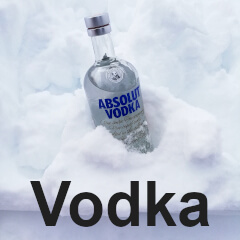
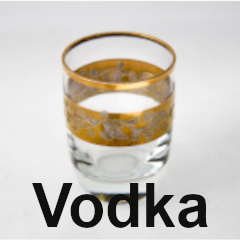
Add files via upload

diff --git a/lollo/drinks/ingredienti/gin.html b/lollo/drinks/ingredienti/gin.html
@@ -1,48 +1,40 @@
 <!DOCTYPE html>
 <html lang="it">
 <head>
-  <title>Virgin Colada</title>
-  <link rel="shortcut icon" href="../icons/icon.ico"/>
+  <title>Gin</title>
+  <link rel="shortcut icon" href="../../icons/icon.ico"/>
   <meta name="viewport" content="width=device-width, user-scalable=no,
 initial-scale=1.0, minimum-scale=1.0, maximum-scale=1.0">
-  <link rel="stylesheet" href="../style.css">
+  <link rel="stylesheet" href="../../style.css">
 </head>
 <body>
   <input type="checkbox" id="check">
     <label for="check">
-      <i class="fas fa-bars" id="btn"><img class="menuicon" src="../icons/menu.png"></i>
-      <i class="fas fa-times" id="cancel"><img class="menuicon" src="../icons/indietro.png"></i>
+      <i class="fas fa-bars" id="btn"><img class="menuicon" src="../../icons/menu.png"></i>
+      <i class="fas fa-times" id="cancel"><img class="menuicon" src="../../icons/indietro.png"></i>
     </label>
     <div class="sidebar">
     <header>F4L5J</header>
   <ul>
-<li><a href="../index.html"><i></i>Home</a></li>
-<li><a href="../aperitivi.html"><i></i>Aperitivi</a></li>
-<li><a href="../privacypolicy.html"><i></i>Cose legali</a></li>
+<li><a href="../../index.html"><i></i>Home</a></li>
+<li><a href="../../aperitivi.html"><i></i>Aperitivi</a></li>
+<li><a href="../../privacypolicy.html"><i></i>Cose legali</a></li>
 </ul>
 </div>
 <br><br><br><br><br>
-  <h1 class="maintitle">Virgin Colada</h1>
-  <img src="images/virgincolada.jpg" class="imgggschedule"alt="drink">
-  <br>
-  <div class="rapidinfo">
-    <div class="flexitemdetails">
-      <h3 class="itemdetails">Gusto</h3><h3 class="itemdetails">dolce</h3>
-    </div>
-    <div class="flexitemdetails">
-      <h3 class="itemdetails">Grado alcolico</h3><h3 class="itemdetails">0</h3>
-    </div>
-  </div>
-  <p>Virgin Piña Colada è la versione analcolica della Piña Colada. Gli ingredienti sono i base gli stessi ma senza rum</p>
-  <p>Ingredienti</p>
+  <h1 class="maintitle">Gin</h1>
+  <img src="../images/gin2.jpg" class="imgggschedule" alt="ingredient">
+  <p>Il gin è una bevanda alcolica che prende il nome dal Ginepro. Si ottiene facendo macerare i botanicals in un fermentato di cereali, il tutto poi viene distillato.<br>I botanicals sono erbe, spezie e altro tra cui deve esserci per forza il ginepro</p>
+  <p>Componenti che possono variare in base alla propria ricetta*</p>
   <ul>
-    <li class="ingredient">Latte di cocco 250 mL</li>
-    <li class="ingredient">Succo di ananas 100 mL</li>
-    <li class="ingredient">Succo di lime (poco)</li>
-    <li class="ingredient">1 ciliegia</li>
-    <li class="ingredient">Ghiaccio</li>
+    <li class="ingredient">Ginepro</li>
+    <li class="ingredient">Semi di coriandolo</li>
+    <li class="ingredient">Radici di angelica</li>
+    <li class="ingredient">Iris Germanica / Iris Pallida</li>
+    <li class="ingredient">Scorze di agrumi (non è presente in tutti)</li>
   </ul>
-  <p>Il gusto è dolce e delicato anche questo drink è considerato salutare per i benefici del latte di cocco e il succo d'ananas</p>
+  <p>Usato per preparere altri drink</p>
+  <p>*Fonte Wikipedia</p>
 
   <div class="flexcookies">
     <div class="alcol-container">

diff --git a/lollo/drinks/ingredienti/chinino.html b/lollo/drinks/ingredienti/chinino.html
@@ -1,48 +1,38 @@
 <!DOCTYPE html>
 <html lang="it">
 <head>
-  <title>Virgin Colada</title>
-  <link rel="shortcut icon" href="../icons/icon.ico"/>
+  <title>Vodka</title>
+  <link rel="shortcut icon" href="../../icons/icon.ico"/>
   <meta name="viewport" content="width=device-width, user-scalable=no,
 initial-scale=1.0, minimum-scale=1.0, maximum-scale=1.0">
-  <link rel="stylesheet" href="../style.css">
+  <link rel="stylesheet" href="../../style.css">
 </head>
 <body>
   <input type="checkbox" id="check">
     <label for="check">
-      <i class="fas fa-bars" id="btn"><img class="menuicon" src="../icons/menu.png"></i>
-      <i class="fas fa-times" id="cancel"><img class="menuicon" src="../icons/indietro.png"></i>
+      <i class="fas fa-bars" id="btn"><img class="menuicon" src="../../icons/menu.png"></i>
+      <i class="fas fa-times" id="cancel"><img class="menuicon" src="../../icons/indietro.png"></i>
     </label>
     <div class="sidebar">
     <header>F4L5J</header>
   <ul>
-<li><a href="../index.html"><i></i>Home</a></li>
-<li><a href="../aperitivi.html"><i></i>Aperitivi</a></li>
-<li><a href="../privacypolicy.html"><i></i>Cose legali</a></li>
+<li><a href="../../index.html"><i></i>Home</a></li>
+<li><a href="../../aperitivi.html"><i></i>Aperitivi</a></li>
+<li><a href="../../privacypolicy.html"><i></i>Cose legali</a></li>
 </ul>
 </div>
 <br><br><br><br><br>
-  <h1 class="maintitle">Virgin Colada</h1>
-  <img src="images/virgincolada.jpg" class="imgggschedule"alt="drink">
-  <br>
-  <div class="rapidinfo">
-    <div class="flexitemdetails">
-      <h3 class="itemdetails">Gusto</h3><h3 class="itemdetails">dolce</h3>
-    </div>
-    <div class="flexitemdetails">
-      <h3 class="itemdetails">Grado alcolico</h3><h3 class="itemdetails">0</h3>
-    </div>
-  </div>
-  <p>Virgin Piña Colada è la versione analcolica della Piña Colada. Gli ingredienti sono i base gli stessi ma senza rum</p>
-  <p>Ingredienti</p>
+  <h1 class="maintitle">Vodka</h1>
+  <p>L'acqua tonica è una bibita dolce fatta da acqua con altri ingredienti. È un soft drink cioè una bibita composta da acqua naturale o acqua gassata , la soda (triossocarbonato di disodio) e opzionalmente aromi o zuccheri vari</p>
+  <p>Componenti</p>
   <ul>
-    <li class="ingredient">Latte di cocco 250 mL</li>
-    <li class="ingredient">Succo di ananas 100 mL</li>
-    <li class="ingredient">Succo di lime (poco)</li>
-    <li class="ingredient">1 ciliegia</li>
-    <li class="ingredient">Ghiaccio</li>
+    <li class="ingredient">Acqua</li>
+    <li class="ingredient">Anidride carbonica (diossido di carbonio)</li>
+    <li class="ingredient">Aromi naturali</li>
+    <li class="ingredient">Chinino</li>
+    <li class="ingredient">Zucchero</li>
   </ul>
-  <p>Il gusto è dolce e delicato anche questo drink è considerato salutare per i benefici del latte di cocco e il succo d'ananas</p>
+  <p>L'acqua tonica è priva di nutrienti in quantità signifucativ e usata spesso per preparare altri coktails</p>
 
   <div class="flexcookies">
     <div class="alcol-container">

diff --git a/lollo/drinks/ingredienti/rum.html b/lollo/drinks/ingredienti/rum.html
@@ -1,48 +1,38 @@
 <!DOCTYPE html>
 <html lang="it">
 <head>
-  <title>Virgin Colada</title>
-  <link rel="shortcut icon" href="../icons/icon.ico"/>
+  <title>Vodka</title>
+  <link rel="shortcut icon" href="../../icons/icon.ico"/>
   <meta name="viewport" content="width=device-width, user-scalable=no,
 initial-scale=1.0, minimum-scale=1.0, maximum-scale=1.0">
-  <link rel="stylesheet" href="../style.css">
+  <link rel="stylesheet" href="../../style.css">
 </head>
 <body>
   <input type="checkbox" id="check">
     <label for="check">
-      <i class="fas fa-bars" id="btn"><img class="menuicon" src="../icons/menu.png"></i>
-      <i class="fas fa-times" id="cancel"><img class="menuicon" src="../icons/indietro.png"></i>
+      <i class="fas fa-bars" id="btn"><img class="menuicon" src="../../icons/menu.png"></i>
+      <i class="fas fa-times" id="cancel"><img class="menuicon" src="../../icons/indietro.png"></i>
     </label>
     <div class="sidebar">
     <header>F4L5J</header>
   <ul>
-<li><a href="../index.html"><i></i>Home</a></li>
-<li><a href="../aperitivi.html"><i></i>Aperitivi</a></li>
-<li><a href="../privacypolicy.html"><i></i>Cose legali</a></li>
+<li><a href="../../index.html"><i></i>Home</a></li>
+<li><a href="../../aperitivi.html"><i></i>Aperitivi</a></li>
+<li><a href="../../privacypolicy.html"><i></i>Cose legali</a></li>
 </ul>
 </div>
 <br><br><br><br><br>
-  <h1 class="maintitle">Virgin Colada</h1>
-  <img src="images/virgincolada.jpg" class="imgggschedule"alt="drink">
-  <br>
-  <div class="rapidinfo">
-    <div class="flexitemdetails">
-      <h3 class="itemdetails">Gusto</h3><h3 class="itemdetails">dolce</h3>
-    </div>
-    <div class="flexitemdetails">
-      <h3 class="itemdetails">Grado alcolico</h3><h3 class="itemdetails">0</h3>
-    </div>
-  </div>
-  <p>Virgin Piña Colada è la versione analcolica della Piña Colada. Gli ingredienti sono i base gli stessi ma senza rum</p>
-  <p>Ingredienti</p>
+  <h1 class="maintitle">Vodka</h1>
+  <p>L'acqua tonica è una bibita dolce fatta da acqua con altri ingredienti. È un soft drink cioè una bibita composta da acqua naturale o acqua gassata , la soda (triossocarbonato di disodio) e opzionalmente aromi o zuccheri vari</p>
+  <p>Componenti</p>
   <ul>
-    <li class="ingredient">Latte di cocco 250 mL</li>
-    <li class="ingredient">Succo di ananas 100 mL</li>
-    <li class="ingredient">Succo di lime (poco)</li>
-    <li class="ingredient">1 ciliegia</li>
-    <li class="ingredient">Ghiaccio</li>
+    <li class="ingredient">Acqua</li>
+    <li class="ingredient">Anidride carbonica (diossido di carbonio)</li>
+    <li class="ingredient">Aromi naturali</li>
+    <li class="ingredient">Chinino</li>
+    <li class="ingredient">Zucchero</li>
   </ul>
-  <p>Il gusto è dolce e delicato anche questo drink è considerato salutare per i benefici del latte di cocco e il succo d'ananas</p>
+  <p>L'acqua tonica è priva di nutrienti in quantità signifucativ e usata spesso per preparare altri coktails</p>
 
   <div class="flexcookies">
     <div class="alcol-container">

diff --git a/lollo/drinks/ingredienti/vodka.html b/lollo/drinks/ingredienti/vodka.html
@@ -23,16 +23,15 @@ initial-scale=1.0, minimum-scale=1.0, maximum-scale=1.0">
 </div>
 <br><br><br><br><br>
   <h1 class="maintitle">Vodka</h1>
-  <p>L'acqua tonica è una bibita dolce fatta da acqua con altri ingredienti. È un soft drink cioè una bibita composta da acqua naturale o acqua gassata , la soda (triossocarbonato di disodio) e opzionalmente aromi o zuccheri vari</p>
+  <img src="../images/vodka2.jpg" class="imgggschedule" alt="ingredient">
+  <p>La vodka è un superalcolico ad l'alta concentrazione di etanolo. Si ottiene distillando mosti di cereali o patate</p>
   <p>Componenti</p>
   <ul>
     <li class="ingredient">Acqua</li>
-    <li class="ingredient">Anidride carbonica (diossido di carbonio)</li>
-    <li class="ingredient">Aromi naturali</li>
-    <li class="ingredient">Chinino</li>
-    <li class="ingredient">Zucchero</li>
+    <li class="ingredient">Alcol tra 37,5% e 60%</li>
+    <li class="ingredient">Aromi (opzionale)</li>
   </ul>
-  <p>L'acqua tonica è priva di nutrienti in quantità signifucativ e usata spesso per preparare altri coktails</p>
+  <p>L'origine è contesa tra Russia e Polonia ma rimane non molto chiara dovuta ai pochi documenti o prove a disposizione. Come visto negli ingredienti esiste la Vodka pura cioè senza aromi aggiuntivi e quella con aromi aggiunti. Viene usata spesso per preparare altri cocktails</p>
 
   <div class="flexcookies">
     <div class="alcol-container">

diff --git a/lollo/drinks/ingredienti/acquatonica.html b/lollo/drinks/ingredienti/acquatonica.html
@@ -23,16 +23,17 @@ initial-scale=1.0, minimum-scale=1.0, maximum-scale=1.0">
 </div>
 <br><br><br><br><br>
   <h1 class="maintitle">Acqua Tonica</h1>
-  <p>L'acqua tonica è una bibita dolce fatta da acqua con altri ingredienti. È un soft drink cioè una bibita composta da acqua naturale o acqua gassata , la soda (triossocarbonato di disodio) e opzionalmente aromi o zuccheri vari</p>
+  <img src="../images/acquatonica2.jpg" class="imgggschedule" alt="ingredient">
+  <p>L'acqua tonica è una bibita dolce fatta da acqua con altri ingredienti. È un soft drink</p>
   <p>Componenti</p>
   <ul>
     <li class="ingredient">Acqua</li>
     <li class="ingredient">Anidride carbonica (diossido di carbonio)</li>
     <li class="ingredient">Aromi naturali</li>
-    <li class="ingredient">Chinino</li>
+    <li class="ingredient">Chinino (quantità non nocive)</li>
     <li class="ingredient">Zucchero</li>
   </ul>
-  <p>L'acqua tonica è priva di nutrienti in quantità signifucativ e usata spesso per preparare altri coktails</p>
+  <p>L'acqua tonica è priva di nutrienti in quantità signifucativa per essere detta salutare. Possono avere diversi gusti perciò è usata spesso per preparare altri coktails</p>
 
   <div class="flexcookies">
     <div class="alcol-container">

diff --git a/lollo/drinks/switchel.html b/lollo/drinks/switchel.html
@@ -33,7 +33,7 @@ initial-scale=1.0, minimum-scale=1.0, maximum-scale=1.0">
       <h3 class="itemdetails">Grado alcolico</h3><h3 class="itemdetails">0</h3>
     </div>
   </div>
-  <p>Lo Switchel è una bevanda analcolica che veniva data ai nelle colonie americane per combattere la stanchezza. È considerata salutare per via degli ingredienti che hanno molti benefici</p>
+  <p>Lo Switchel è una bevanda analcolica che veniva data ai nelle colonie americane per combattere la stanchezza</p>
   <p>Ingredienti per 4 bicchieri, quindi circa 1/4 per 1</p>
   <ul>
     <li class="ingredient">Acqua 500 ml</li>
@@ -41,7 +41,7 @@ initial-scale=1.0, minimum-scale=1.0, maximum-scale=1.0">
     <li class="ingredient">2 cucchiaia di miele</li>
     <li class="ingredient">Zenzero fresco (non troppo)</li>
   </ul>
-  <p>La sua gradazione alcolica è 0°</p>
+  <p>È considerata salutare per via degli ingredienti che hanno molti benefici come lo zenzero e il miele. Consigliato spesso a chi vuole recuperare energia perchè stanco, magari dopo una giornata stressante</p>
 
   <div class="flexcookies">
     <div class="alcol-container">

diff --git a/lollo/drinks/redsunset.html b/lollo/drinks/redsunset.html
@@ -33,7 +33,7 @@ initial-scale=1.0, minimum-scale=1.0, maximum-scale=1.0">
       <h3 class="itemdetails">Grado alcolico</h3><h3 class="itemdetails">0</h3>
     </div>
   </div>
-  <p>Il Red sunset è una bevanda analcolica a base di succhi di frutta. Succo d'arancia, ananas, pesca e menta lo fanno diventare un drink dolce e fresco</p>
+  <p>Il Red sunset è una bevanda analcolica a base di succhi di frutta</p>
   <p>Ingredienti</p>
   <ul>
     <li class="ingredient">Succo d'ananas ⅓ del tutto (6 cl)</li>
@@ -42,7 +42,7 @@ initial-scale=1.0, minimum-scale=1.0, maximum-scale=1.0">
     <li class="ingredient">Foglie di menta</li>
     <li class="ingredient">Ghiaccio</li>
   </ul>
-  <p>La sua gradazione alcolica è 0° perchè fatto da succhi di frutta e menta</p>
+  <p>Questo drink è perfetto per godersi il tramonto. Dolce e fresco, spesso viene servito con del ghiaccio frantumato per far disperdere la freschezza in tutto il bicchiere</p>
   
   <div class="flexcookies">
     <div class="alcol-container">

diff --git a/lollo/drinks/roselemonspritzer.html b/lollo/drinks/roselemonspritzer.html
@@ -33,14 +33,14 @@ initial-scale=1.0, minimum-scale=1.0, maximum-scale=1.0">
       <h3 class="itemdetails">Grado alcolico</h3><h3 class="itemdetails">0</h3>
     </div>
   </div>
-  <p>Un drink analcolico rinfrescante</p>
-  <p>Ingredienti</p>
+  <p>Un drink analcolico poco conosciuto ma sempre un'ottima scelta</p>
+  <p>Ingredienti (possono variare in base al bar che può cambiarli in quantità)</p>
   <ul>
     <li class="ingredient">Succo di pompelmo rosa 7 cl</li>
-    <li class="ingredient">Acqua tonica al limone 3 cl</li>
+    <li class="ingredient"><a href="ingredienti/acquatonica.html">Acqua tonica</a> al limone 3 cl</li>
     <li class="ingredient">Cucchiaio di miele</li>
   </ul>
-  <p>La sua gradazione alcolica è 0°</p>
+  <p>Se prendi questo drink stai tranquillo/a perchè la sua dolcezza ti convincerà di aver fatto un'ottima scelta. Goditelo con calma senza pensieri</p>
 
   <div class="flexcookies">
     <div class="alcol-container">

diff --git a/lollo/drinks/crodino.html b/lollo/drinks/crodino.html
@@ -33,7 +33,7 @@ initial-scale=1.0, minimum-scale=1.0, maximum-scale=1.0">
       <h3 class="itemdetails">Grado alcolico</h3><h3 class="itemdetails">0</h3>
     </div>
   </div>
-  <p>Il Crodino è una bevanda analcolica <strong>senza glutine</strong></p>
+  <p>Il Crodino è una bevanda analcolica <strong>senza glutine</strong> prodotta a Crodo in Piemonte</p>
   <p>Ingredienti sono per lo più "segreti" ma alcuni otrebbero essere questi</p>
   <ul>
     <li class="ingredient">Erbe</li>
@@ -41,7 +41,7 @@ initial-scale=1.0, minimum-scale=1.0, maximum-scale=1.0">
     <li class="ingredient">Zenzero</li>
     <li class="ingredient">Genziana</li>
   </ul>
-  <p>La sua gradazione alcolica è 0°</p>
+  <p>La sua gradazione alcolica è 0° perciò è considerato non impegnativo</p>
 
   <div class="flexcookies">
     <div class="alcol-container">

diff --git a/lollo/drinks/gintonic.html b/lollo/drinks/gintonic.html
@@ -33,11 +33,11 @@ initial-scale=1.0, minimum-scale=1.0, maximum-scale=1.0">
       <h3 class="itemdetails">Grado alcolico</h3><h3 class="itemdetails">17</h3>
     </div>
   </div>
-  <p>Il Gin Tonic è un cocktail  molto famoso composto da gin e acqua</p>
+  <p>Il Gin Tonic è un cocktail molto famoso composto da gin e acqua tonica</p>
   <p>Ingredienti</p>
   <ul>
-    <li class="ingredient">Gin 1/3</li>
-    <li class="ingredient">Acqua tonica 2/3</li>
+    <li class="ingredient"><a href="ingredienti/gin.html">Gin</a> 1/3</li>
+    <li class="ingredient"><a href="ingredienti/acquatonica.html">Acqua tonica</a> 2/3</li>
     <li class="ingredient">Cubetti ghiaccio</li>
     <li class="ingredient">Fettina di limone</li>
   </ul>

diff --git a/lollo/drinks/virginroyalhawaiian.html b/lollo/drinks/virginroyalhawaiian.html
@@ -39,9 +39,9 @@ initial-scale=1.0, minimum-scale=1.0, maximum-scale=1.0">
     <li class="ingredient">Succo d'ananas 90 g</li>
     <li class="ingredient">Latte di mandorle 60 g</li>
     <li class="ingredient">Succo di limone 30 g</li>
-    <li class="ingredient">ananas fresco</li>
+    <li class="ingredient">ananas fresco (guarnizione)</li>
   </ul>
-  <p>La sua gradazione alcolica è di 0°</p>
+  <p>È salutare per via dell'ananas e mandorle ma il gusto dolce potrebbe essere leggermente pungente dovuto al limone usato dal bar</p>
 
   <div class="flexcookies">
     <div class="alcol-container">

diff --git a/lollo/drinks/shirleytemple.html b/lollo/drinks/shirleytemple.html
@@ -33,7 +33,7 @@ initial-scale=1.0, minimum-scale=1.0, maximum-scale=1.0">
       <h3 class="itemdetails">Grado alcolico</h3><h3 class="itemdetails">0</h3>
     </div>
   </div>
-  <p>Shirley Temple è il nome di un drink analcolico inventato nelle Hawaii all'hotel Royal Hawaien di Waikiki in onore dell'attrice con l'omonimo nome</p>
+  <p>Shirley Temple è il nome di un drink analcolico inventato nelle Hawaii all'hotel Royal Hawaien di Waikiki in onore del viaggio dell'attrice con l'omonimo nome</p>
   <p>Ingredienti</p>
   <ul>
     <li class="ingredient">Sciroppo di granatina 15 mL</li>
